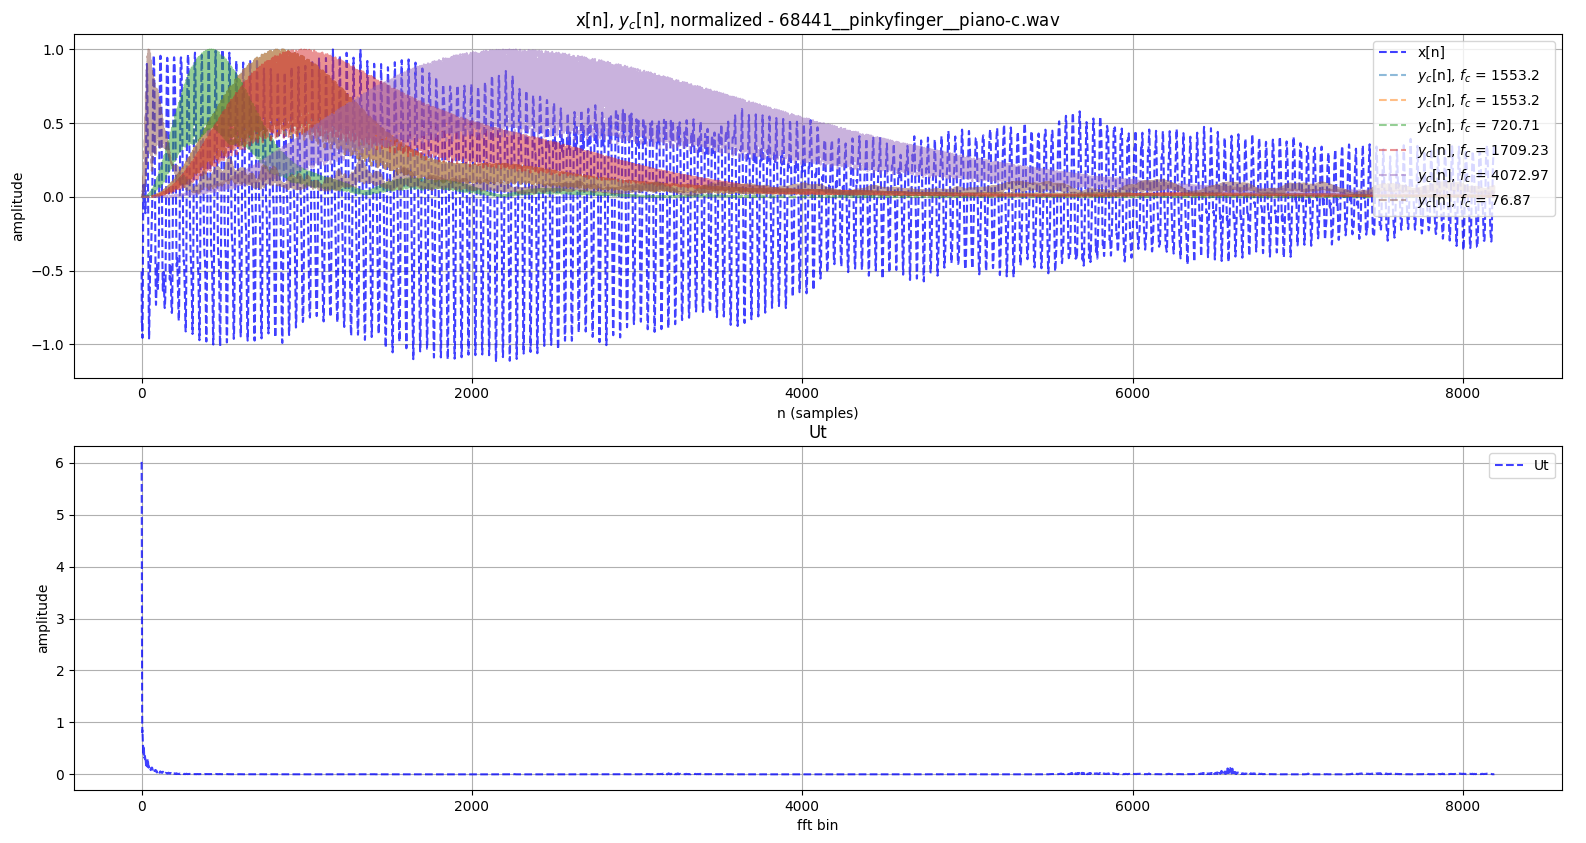
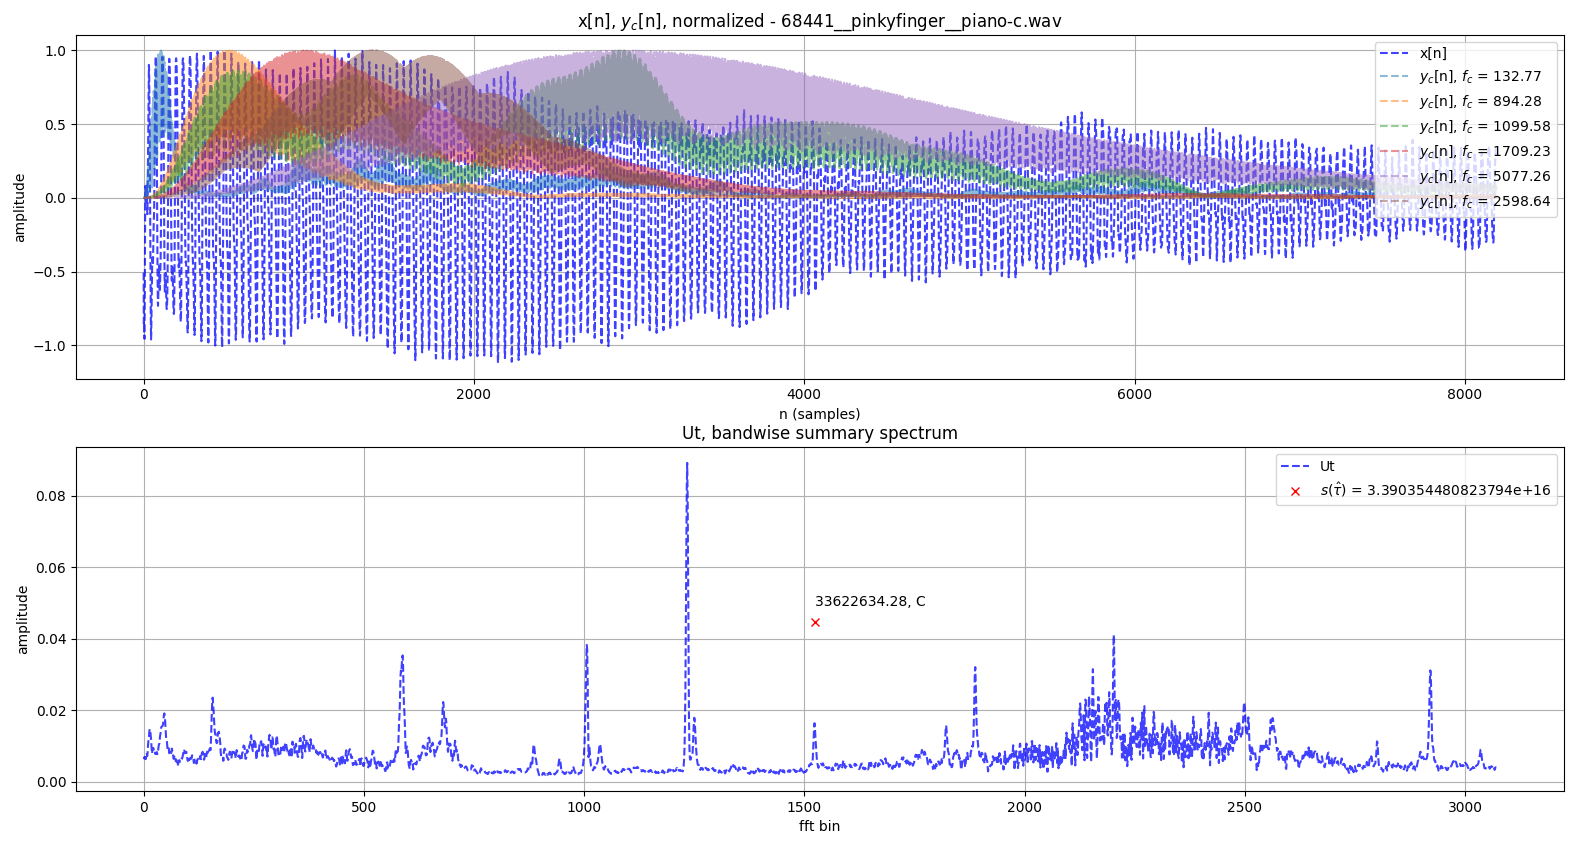
Somewhat usable result from Klapuri-Anssi

diff --git a/chord_detection/klapuri_anssi/iterative_f0.py b/chord_detection/klapuri_anssi/iterative_f0.py
@@ -27,13 +27,9 @@ class MultipitchIterativeF0(Multipitch):
         channels=70,
         zeta0=2.3,
         zeta1=0.39,
-        epsilon1=20,
-        epsilon2=320,
         peak_thresh=0.5,
         peak_min_dist=10,
         harmonic_multiples_elim=5,
-        M=20,
-        tau_prec=1,
     ):
         super().__init__(audio_path)
         self.frame_size = frame_size
@@ -42,13 +38,9 @@ class MultipitchIterativeF0(Multipitch):
         self.channels = [
             229 * (10 ** ((zeta1 * c + zeta0) / 21.4) - 1) for c in range(channels)
         ]
-        self.epsilon1 = epsilon1
-        self.epsilon2 = epsilon2
         self.peak_thresh = peak_thresh
         self.peak_min_dist = peak_min_dist
         self.harmonic_multiples_elim = harmonic_multiples_elim
-        self.M = M
-        self.tau_prec = tau_prec
         self.periodicity_estimator = IterativeF0PeriodicityAnalysis(self.fs, self.frame_size)
 
     @staticmethod
@@ -92,19 +84,19 @@ class MultipitchIterativeF0(Multipitch):
                 running_sum += numpy.abs(numpy.fft.fft(Yct_)) ** self.power
             Ut[frame] = running_sum
 
-            if frame == display_plot_frame:
-                _display_plots(self.clip_name, self.frame_size, self.x, self.channels, ycn, Ut[frame])
-
-        # periodicity estimate - iterative f0 cancellation/tau/salience loop
-
         overall_chromagram = Chromagram()
+        # periodicity estimate - iterative f0 cancellation/tau/salience loop
         for frame, Uk in enumerate(Ut):
-            overall_chromagram += self.periodicity_estimator.compute(Uk)
+            frame_chromagram, salience_plots = self.periodicity_estimator.compute(Uk)
+            overall_chromagram += frame_chromagram
+
+            if frame == display_plot_frame:
+                _display_plots(self.clip_name, self.fs, self.frame_size, self.x, self.channels, ycn, Ut[frame], salience_plots)
 
         return overall_chromagram
 
 
-def _display_plots(clip_name, frame_size, x, channels, ytc, Ut):
+def _display_plots(clip_name, fs, frame_size, x, channels, ytc, Ut, splots):
     fig1, (ax1, ax2) = plt.subplots(2, 1)
 
     ax1.set_title(r"x[n], $y_c$[n], normalized - {0}".format(clip_name))
@@ -135,16 +127,39 @@ def _display_plots(clip_name, frame_size, x, channels, ytc, Ut):
     ax1.grid()
     ax1.legend(loc="upper right")
 
-    ax2.set_title("Ut")
+    ax2.set_title("Ut, bandwise summary spectrum")
     ax2.set_xlabel("fft bin")
     ax2.set_ylabel("amplitude")
     ax2.plot(
-        numpy.arange(frame_size),
-        Ut[: frame_size],
+        numpy.arange(frame_size/2-1024),
+        Ut[1024 : int(frame_size/2)],
         "b",
         alpha=0.75,
         linestyle="--",
         label="Ut",
+    )
+
+    max_ut = numpy.amax(Ut[1024 : int(frame_size/2)])
+
+    (saliences, periods) = splots
+
+    tau = int(1/periods[0])
+
+    ax2.plot(
+            tau,
+            max_ut/2,
+            'rx',
+            label=r'$s(\hat{\tau})$ = ' + str(round(saliences[0], 2))
+        )
+
+    pitch = fs / periods[0]
+    note = librosa.hz_to_note(pitch, octave=False)
+    pitch = round(pitch, 2)
+
+    ax2.text(
+            tau,
+            1.1*(max_ut/2),
+            '{0}, {1}'.format(pitch, note)
     )
 
     ax2.grid()
@@ -198,80 +213,3 @@ def _bandwise_summary_spectrum(
         running_sum += numpy.abs(numpy.fft.fft(xc)) ** k
 
     return running_sum[:int((shape-1)/2)]
-
-
-def _weight(tau_low, tau_up, fs, epsilon1, epsilon2, m):
-    return (fs / tau_low + epsilon1) / (m * fs / tau_up + epsilon2)
-
-
-@njit
-def _max_Ut(Ut, tau, delta_tau, m, K):
-    Ut_max = 0.0
-    for tau_adjusted in numpy.linspace(tau + delta_tau / 2, tau - delta_tau / 2):
-        if tau_adjusted == 0.0:
-            continue
-        k_tau_m = int(round(m * K / tau_adjusted))
-        if 0 <= k_tau_m < Ut.shape[0]:
-            Ut_max = max(Ut[k_tau_m], Ut_max)
-    return Ut_max
-
-
-def smax(q: float, Ur: numpy.ndarray) -> float:
-    tor = 0.5*0.2
-    return tor
-''' 
-float PeriodicityAnalysis::smax(int q, float * Ur) {
-    
-    float tor = 0.5f*(torlow_[q] + torup_[q]);
-    float deltator = torup_[q] - torlow_[q];
-    
-    //2745.4833984375 = 10.7666015625*255 = (44100.0/4096) * 255
-    
-    
-    int topm = tor*2745.4833984375; //2745.4833984375/(1.0/tor)
-    
-    if(topm>20) topm = 20; 
-    
-    //break early if go outside first 256 bins (later may allow use of wider band mainFFT for higher k ignoring band wise channel data? 
-    
-    float salience = 0.0f; 
-    float srovertor = g_samplingrate/torup_[q];  //g_samplingrate/tor; 
-    
-    //float K = 4096.0/g_samplingrate; 
-    
-    for (int m=1; m<topm; ++m) {
-        
-        int lowk = m*K_/(tor+0.5*deltator) +0.5f; //dd 0.5 since rounding to nearest integer
-        int highk = m*K_/(tor-0.5*deltator) + 0.5f;
-        
-        //indexing safety check
-        if((lowk < UKSIZE) && (highk < UKSIZE)) { 
-            
-            float maxu = Ur[lowk];
-            
-            for(int i=lowk+1; i<highk; ++i) {
-                
-                float nowu = Ur[i];
-                
-                if(nowu>maxu)
-                    maxu = nowu; 
-                
-            }
-            
-            float w = 1.0/(m*srovertor + 320.0f);
-            
-            salience += w* maxu; 
-            
-        }
-        
-    }
-    
-    //was srovertor
-    salience *= g_samplingrate/torlow_[q] + 5.f; //numerator multiplier from w doesn't depend on m and taken outside 
-    
-    //smax_[q] = salience; 
-    
-    return salience; 
-    
-}
-'''

diff --git a/chord_detection/klapuri_anssi/periodicity.py b/chord_detection/klapuri_anssi/periodicity.py
@@ -8,7 +8,7 @@ _HAMMINGWINDOWNORM = [0.0011244659258033, 0.11559343551383, 0.42817348241183, 0.
 
 
 '''
-thank god for https://github.com/BansMarbol/PolyPitch
+borrowed heavily from https://github.com/BansMarbol/PolyPitch
 '''
 
 class IterativeF0PeriodicityAnalysis():
@@ -18,9 +18,13 @@ class IterativeF0PeriodicityAnalysis():
             window_size: int,
             max_voices=4,
             tau_min=1.0/2100.0,
-            tau_max=1.0/65.0,
+            tau_max=1.0/40.0,
             tau_prec=0.0000001,
-            max_q=50,
+            Q=20,
+            M=20,
+            epsilon1=20,
+            epsilon2=320,
+            gamma=0.66,
         ):
         self.fs = fs
         self.window_size = window_size
@@ -29,18 +33,21 @@ class IterativeF0PeriodicityAnalysis():
         self.tau_min = tau_min
         self.tau_max = tau_max
         self.tau_prec = tau_prec
-        self.max_q = max_q
+        self.Q = Q
+        self.M = M
+        self.epsilon1 = epsilon1
+        self.epsilon2 = epsilon2
+        self.gamma = gamma # polyphony estimate
 
         self.voicesaliences = numpy.zeros(self.max_voices)
         self.voiceperiods = numpy.zeros(self.max_voices)
-        self.smax = numpy.zeros(self.max_q)
-        self.tau_low = numpy.zeros(self.max_q)
-        self.tau_up = numpy.zeros(self.max_q)
+        self.smax = numpy.zeros(self.Q)
+        self.tau_low = numpy.zeros(self.Q)
+        self.tau_up = numpy.zeros(self.Q)
 
     def compute(self, Uk: numpy.ndarray) -> Chromagram:
         num_voices_detected = 0
         cancellation_weight = 1.0
-        polyphonyestimategamma = 0.66
 
         Ud = numpy.zeros(Uk.shape[0])
         Ur = numpy.array(Uk)
@@ -62,7 +69,7 @@ class IterativeF0PeriodicityAnalysis():
             num_voices_detected += 1
             mixturescore += bestsalience
 
-            testquantity = mixturescore/(math.pow(num_voices_detected, polyphonyestimategamma))
+            testquantity = mixturescore/(math.pow(num_voices_detected, self.gamma))
 
             if num_voices_detected >= self.max_voices or testquantity <= prevmixturescore:
                 keepgoing = False
@@ -72,15 +79,15 @@ class IterativeF0PeriodicityAnalysis():
                 topm = int(tau*(self.fs/self.window_size)*Uk.shape[0])
 
                 srovertau = self.fs/tau
-                weight = srovertau + 5
+                weight = srovertau + self.epsilon1
                 for m in range(1, topm):
                     partialK = m*self.K/tau + 0.5
                     if partialK <= Uk.shape[0]:
                         Urweight = Ur[int(partialK)]
-                        Urweight *= weight/(m*srovertau + 320.0)
+                        Urweight *= weight/(m*srovertau + self.epsilon2)
 
                         lowk = max(int(partialK-4), 0)
-                        highk = min(int(partialK+4), 255)
+                        highk = min(int(partialK+4), Uk.shape[0])
 
                         for j in range(lowk, highk+1):
                             hammingindexnow = int(j - partialK + 4)
@@ -96,10 +103,13 @@ class IterativeF0PeriodicityAnalysis():
 
         c = Chromagram()
         for i in range(self.voiceperiods.shape[0]):
-            note = librosa.hz_to_note(1.0/self.voiceperiods[i], octave=False)
-            c[note] += self.voicesaliences[i]
+            try:
+                note = librosa.hz_to_note(self.fs/self.voiceperiods[i], octave=False)
+                c[note] += self.voicesaliences[i]
+            except OverflowError:
+                continue
 
-        return c
+        return c, (self.voicesaliences.copy(), self.voiceperiods.copy())
 
     def min_search(self, Ur: numpy.ndarray) -> float:
         q = 0
@@ -109,7 +119,7 @@ class IterativeF0PeriodicityAnalysis():
 
         qbest = 0
 
-        while (self.tau_up[qbest] - self.tau_low[qbest]) > self.tau_prec and q < self.max_q-1:
+        while (self.tau_up[qbest] - self.tau_low[qbest]) > self.tau_prec and q < self.Q-1:
             q += 1
             self.tau_low[q] = (self.tau_low[qbest] + self.tau_up[qbest])*0.5
             self.tau_up[q] = self.tau_up[qbest]
@@ -133,25 +143,21 @@ class IterativeF0PeriodicityAnalysis():
 
     def smax_fn(self, q: int, Ur: numpy.ndarray) -> float:
         tau = 0.5*(self.tau_low[q] + self.tau_up[q])
-        deltator = self.tau_up[q] - self.tau_low[q]
-
-        topm = int(tau*(self.fs/self.window_size)*Ur.shape[0])
-        if topm > 20:
-            topm = 20
+        deltatau = self.tau_up[q] - self.tau_low[q]
 
         salience = 0.0
         srovertau = self.fs/self.tau_up[q]
 
-        for m in range(1, topm):
-            lowk = int(m*self.K*(tau+0.5*deltator) + 0.5)
-            highk = int(m*self.K/(tau-0.5*deltator) + 0.5)
+        weight_numerator = self.fs/self.tau_low[q] + self.epsilon1
+        def weight_denominator(m: int):
+            return (m*self.fs/self.tau_up[q] + self.epsilon2)
 
-            if lowk < Ur.shape[0] and highk < Ur.shape[0]:
-                maxu = Ur[lowk]
-                for i in range(lowk+1, highk):
-                    maxu = max(Ur[i], maxu)
-                w = 1.0/(m*srovertau + 320.0)
-                salience += w*maxu
+        for m in range(1, self.M):
+            lowk = int(m*self.K/(tau+0.5*deltatau) + 0.5)
+            highk = int(m*self.K/(tau-0.5*deltatau) + 0.5)
 
-        salience *= self.fs/self.tau_low[q] + 5
+            Umax = numpy.amax(Ur[lowk:highk+1])
+            salience += weight_denominator(m)*Umax
+
+        salience *= weight_numerator
         return salience

diff --git a/README.md b/README.md
@@ -33,7 +33,8 @@ _M Stark, Adam and Plumbley, Mark., "Real-Time Chord Recognition for Live Perfor
 #### Iterative F0 (Klapuri, Anssi)
 
 ```
-incomplete
+reference: 100010010000
+computed:  900301000000, key: Cmin
 ```
 
 ![iterativef0](.github/piano_c_3.png)
